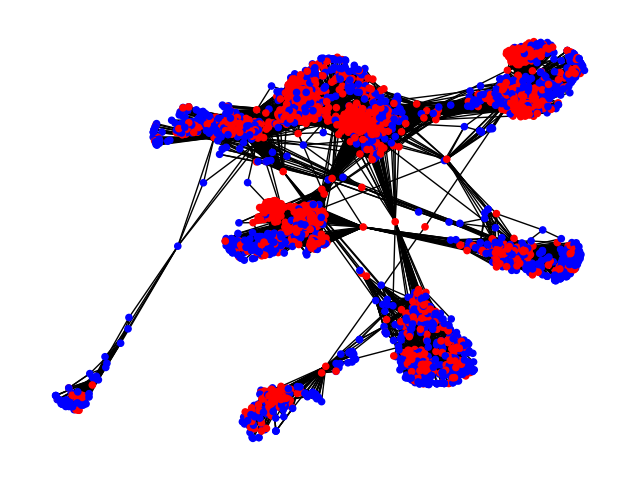
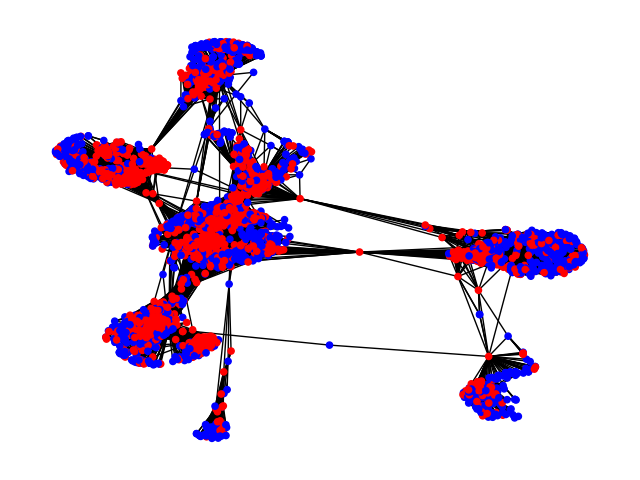
Fixed issue where infected nodes went down.

Changed region(s): [[0.0625, 0.0625, 0.9375, 0.9375]]

diff --git a/FacebookGraph.py b/FacebookGraph.py
@@ -51,8 +51,6 @@ class FacebookGraph:
 
     def make_timestep(self):
         inf_degree = []
-        node_states = {}
-
         for n in self.G.nodes:
             if self.G.nodes[n]["state"] == 0:
                 neighbors = nx.all_neighbors(self.G, n)
@@ -64,14 +62,13 @@ class FacebookGraph:
                 # newly infected
                 if np.random.uniform() < inf_chance(n_inf_neighbors,
                                                          self.i):
-                    node_states[n] = 1
+                    self.node_states[n] = 1
                     inf_degree.append(total_neighbors)
 
-        nx.set_node_attributes(self.G, node_states, "state")
-
+        nx.set_node_attributes(self.G, self.node_states, "state")
         # track infected and susceptible counts
-        self.inf_count = np.sum(list(node_states.values()))
-        self.sus_count = len(node_states) - self.inf_count
+        self.inf_count = np.sum(list(self.node_states.values()))
+        self.sus_count = len(self.node_states) - self.inf_count
         self.infected_at_t.append(self.inf_count)
         self.susceptible_at_t.append(self.sus_count)
 
@@ -82,7 +79,7 @@ class FacebookGraph:
 
 def main():
     FbGraph = FacebookGraph()
-    print(FbGraph.node_states)
+    # print(FbGraph.node_states)
     FbGraph.draw_graph("Before", True)
 
     for i in range(FbGraph.time_steps):
